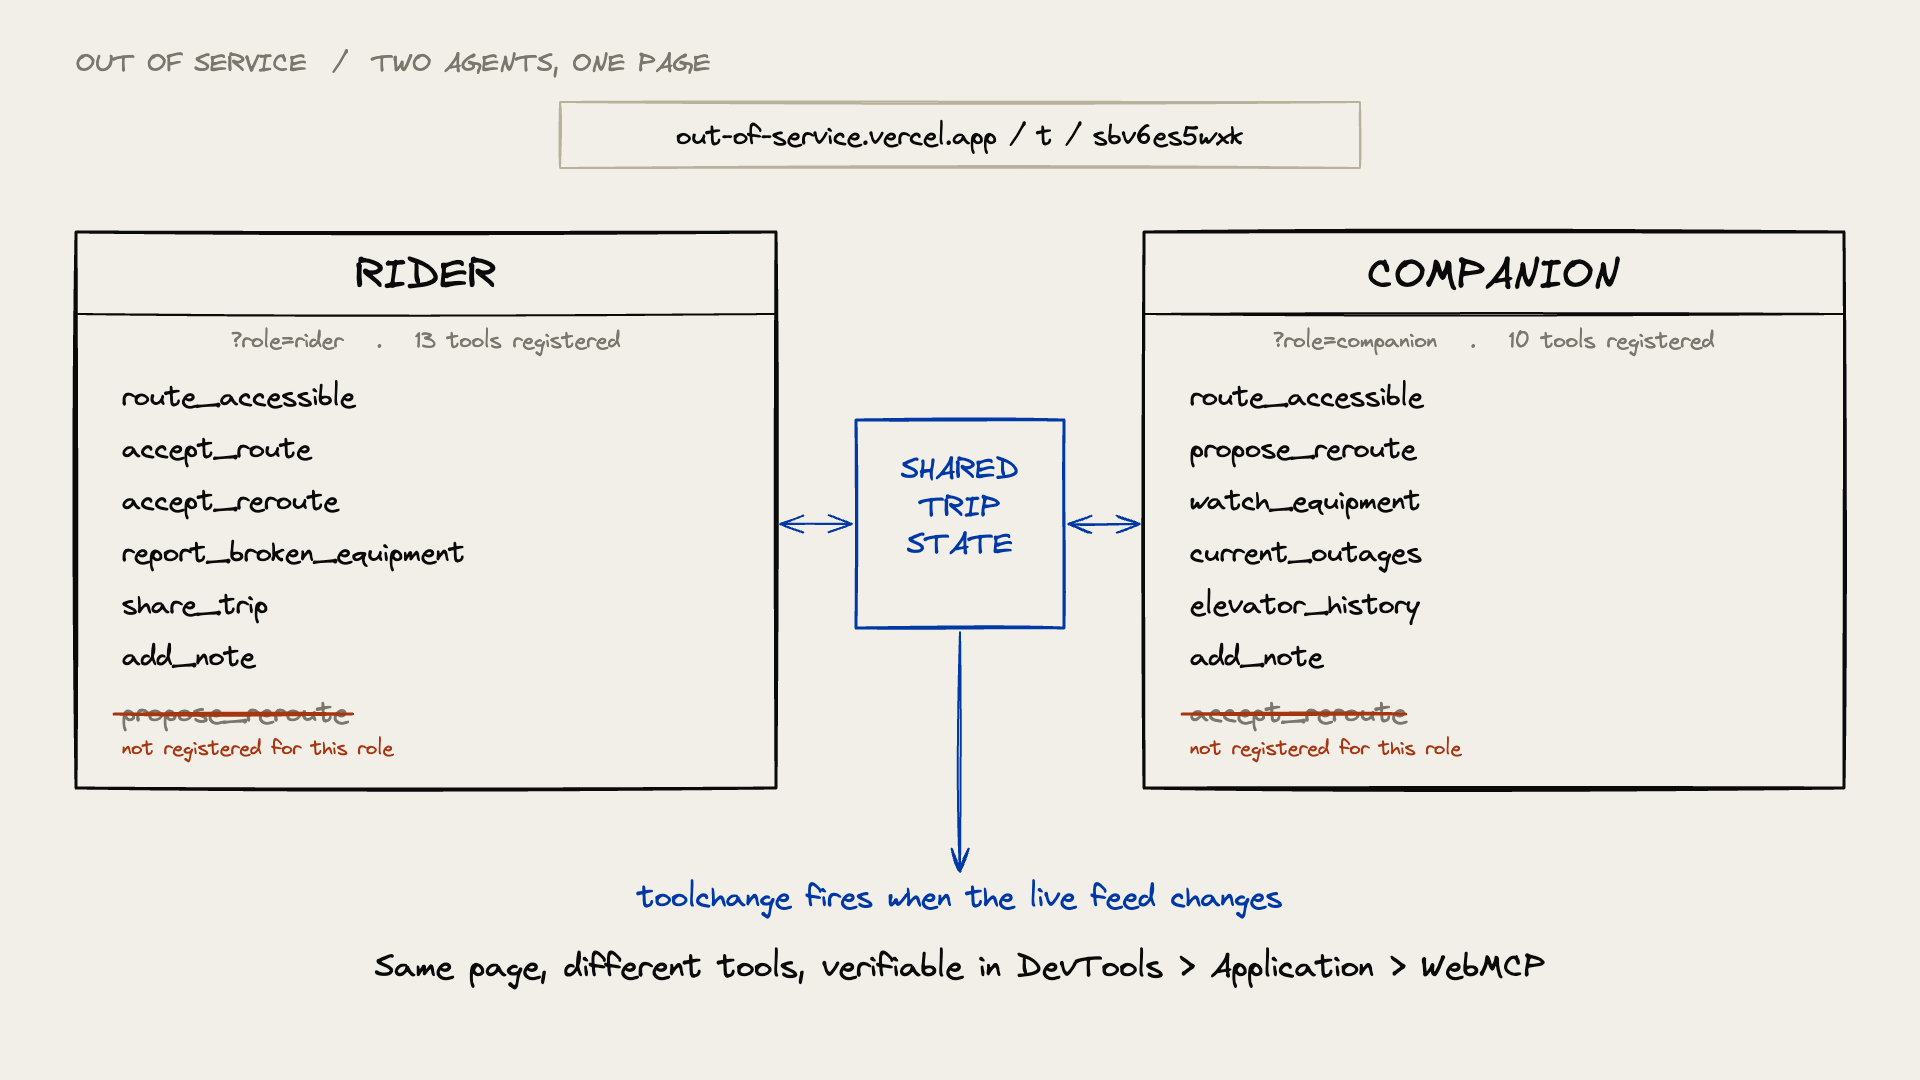
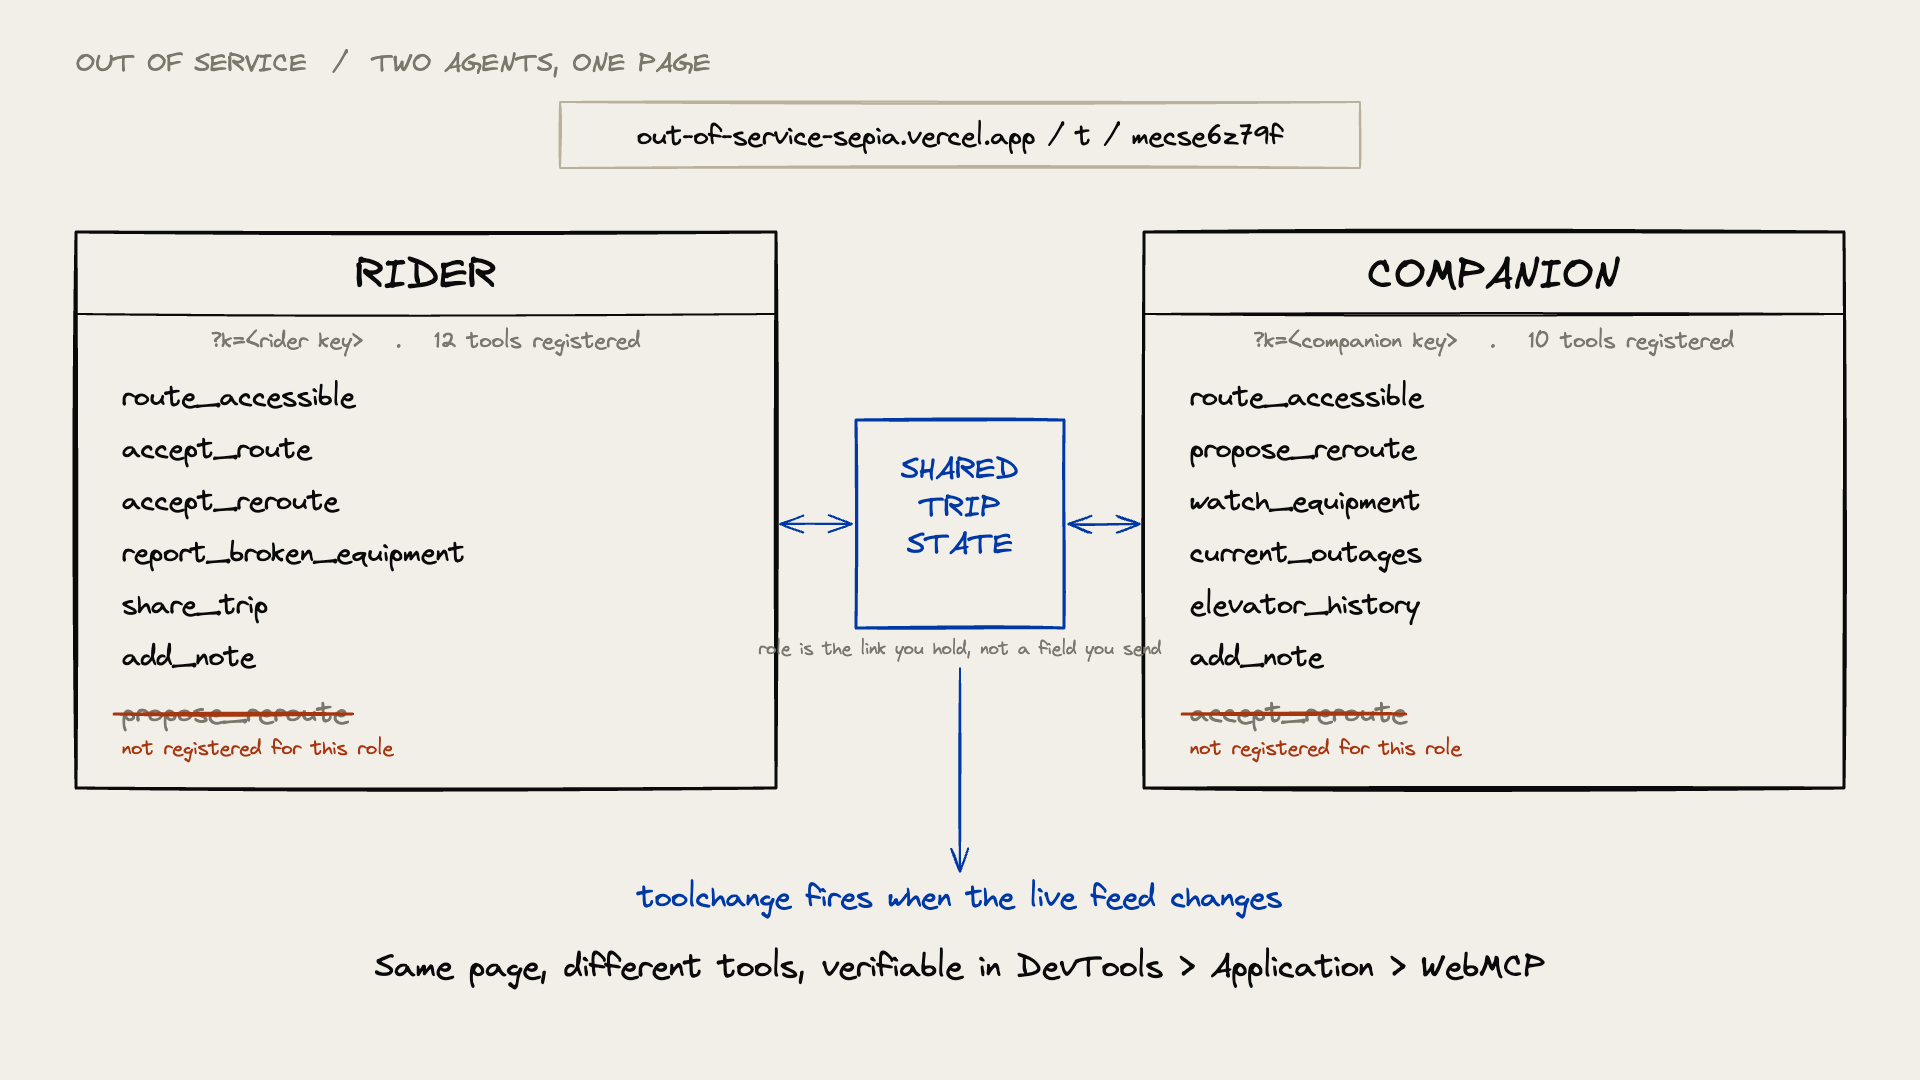
docs: two-sessions diagram with key-based links
Rider/companion subtitles now show ?k=<role key> instead of ?role=,
the URL bar reflects the live out-of-service-sepia.vercel.app trip,
rider's registered-tool count corrected to 12 (registerTool-imperative
only; report_broken_equipment is browser-registered from its form and
excluded), and a caption under the shared-state box states role is a
held capability, not a sent field.

diff --git a/docs/WIN-CONDITIONS.md b/docs/WIN-CONDITIONS.md
@@ -36,3 +36,9 @@ two-session asymmetry (jude-gao 16/20, andrew-galloni 15/20) — role becomes a 
 token instead of a self-declared string, and the `?demo=1` simulated outage becomes trip state
 shared over the existing SSE stream instead of one tab's local React state. No new track, no new
 entry, no new asset.
+
+## Diagram-agent note (two-sessions re-render, key-based links)
+Diagram agent confirms this gate is answered and unchanged from the entry above. This pass only
+re-renders video/diagrams/two-sessions.png to reflect the role-as-capability fix already recorded
+above (?k=<role> key replacing ?role=, corrected registered-tool counts, the added capability
+caption). No product code, no new track, no new entry, no new asset.
